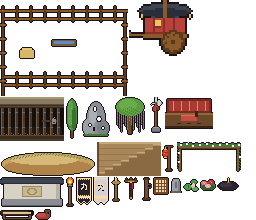
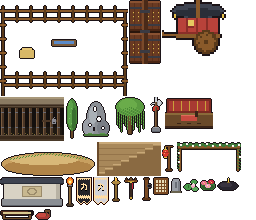
prop.gateshut for Places: a city gate drawn shut (32x64, for a west/east wall's gap): two studded timber leaves with iron bands and gilt studs, barred by a beam across both
Claude-Session: https://claude.ai/code/session_01CG7crrkzqt1vmaeQ7L7w6w

Changed region(s): [[0.5, 0.0, 0.9062, 0.3]]

diff --git a/tools/draw_b2_extras.py b/tools/draw_b2_extras.py
@@ -376,6 +376,25 @@ def bridal_carriage():   # a covered Han carriage hung with red silk (the cutsce
     return _prop("carriage", 2)
 
 
+def gateshut():   # a city gate drawn shut across the gap in a west or east wall (32x64): two heavy studded timber
+    # leaves meeting in the middle, iron bands, and a great beam barring them, the passage running across
+    g = Grid(32, 64)
+    for y0 in (0, 32):                                                       # the two leaves
+        g.rect(1, y0 + 1, 30, 30, "#6a3a22"); g.rect(1, y0 + 1, 30, 2, "#8a5232"); g.rect(1, y0 + 29, 30, 2, "#4a2614")
+        for x in range(5, 30, 6):
+            g.rect(x, y0 + 3, 1, 26, "#5a301c")                              # planks
+        for y in (y0 + 7, y0 + 24):
+            g.rect(1, y, 30, 2, "#3a3a42")                                   # iron bands
+        for yy in (y0 + 12, y0 + 16, y0 + 20):
+            for x in range(4, 30, 5):
+                g.set(x, yy, "#d8b050"); g.set(x, yy + 1, "#7a5a22")         # gilt studs
+    g.rect(1, 31, 30, 2, "#2a160c")                                          # the seam where they meet
+    g.rect(13, 0, 6, 64, "#4a2a18"); g.rect(13, 0, 2, 64, "#7a4a2a")         # the bar across both leaves
+    for y in (10, 30, 50):
+        g.rect(11, y, 10, 3, "#3a3a42")                                      # its iron brackets
+    return g.outline().image()
+
+
 PIECES = {
     "banner.black": banner_black, "banner.white": banner_white, "milestone": milestone, "plant.peony": peony, "water.lotus": lotus,
     "prop.lanterns": lantern_stand, "prop.body_lamp": body_lamp, "tree.poplar": poplar, "tree.willow": willow,
@@ -383,7 +402,7 @@ PIECES = {
     "furn.swordwall": swordwall, "furn.seat": seat, "furn.lamp": lamp, "furn.dais": dais, "corral": corral,
     "landmark.hitchingpost": hitchingpost, "garden.rockery": rockery, "landmark.ridge": ridge,
     "furn.jailcell": jailcell, "landmark.torch": torch, "wall.stairs": wallstairs, "prop.halberd": halberd,
-    "prop.carriage": bridal_carriage,
+    "prop.carriage": bridal_carriage, "prop.gateshut": gateshut,
 }
 
 
